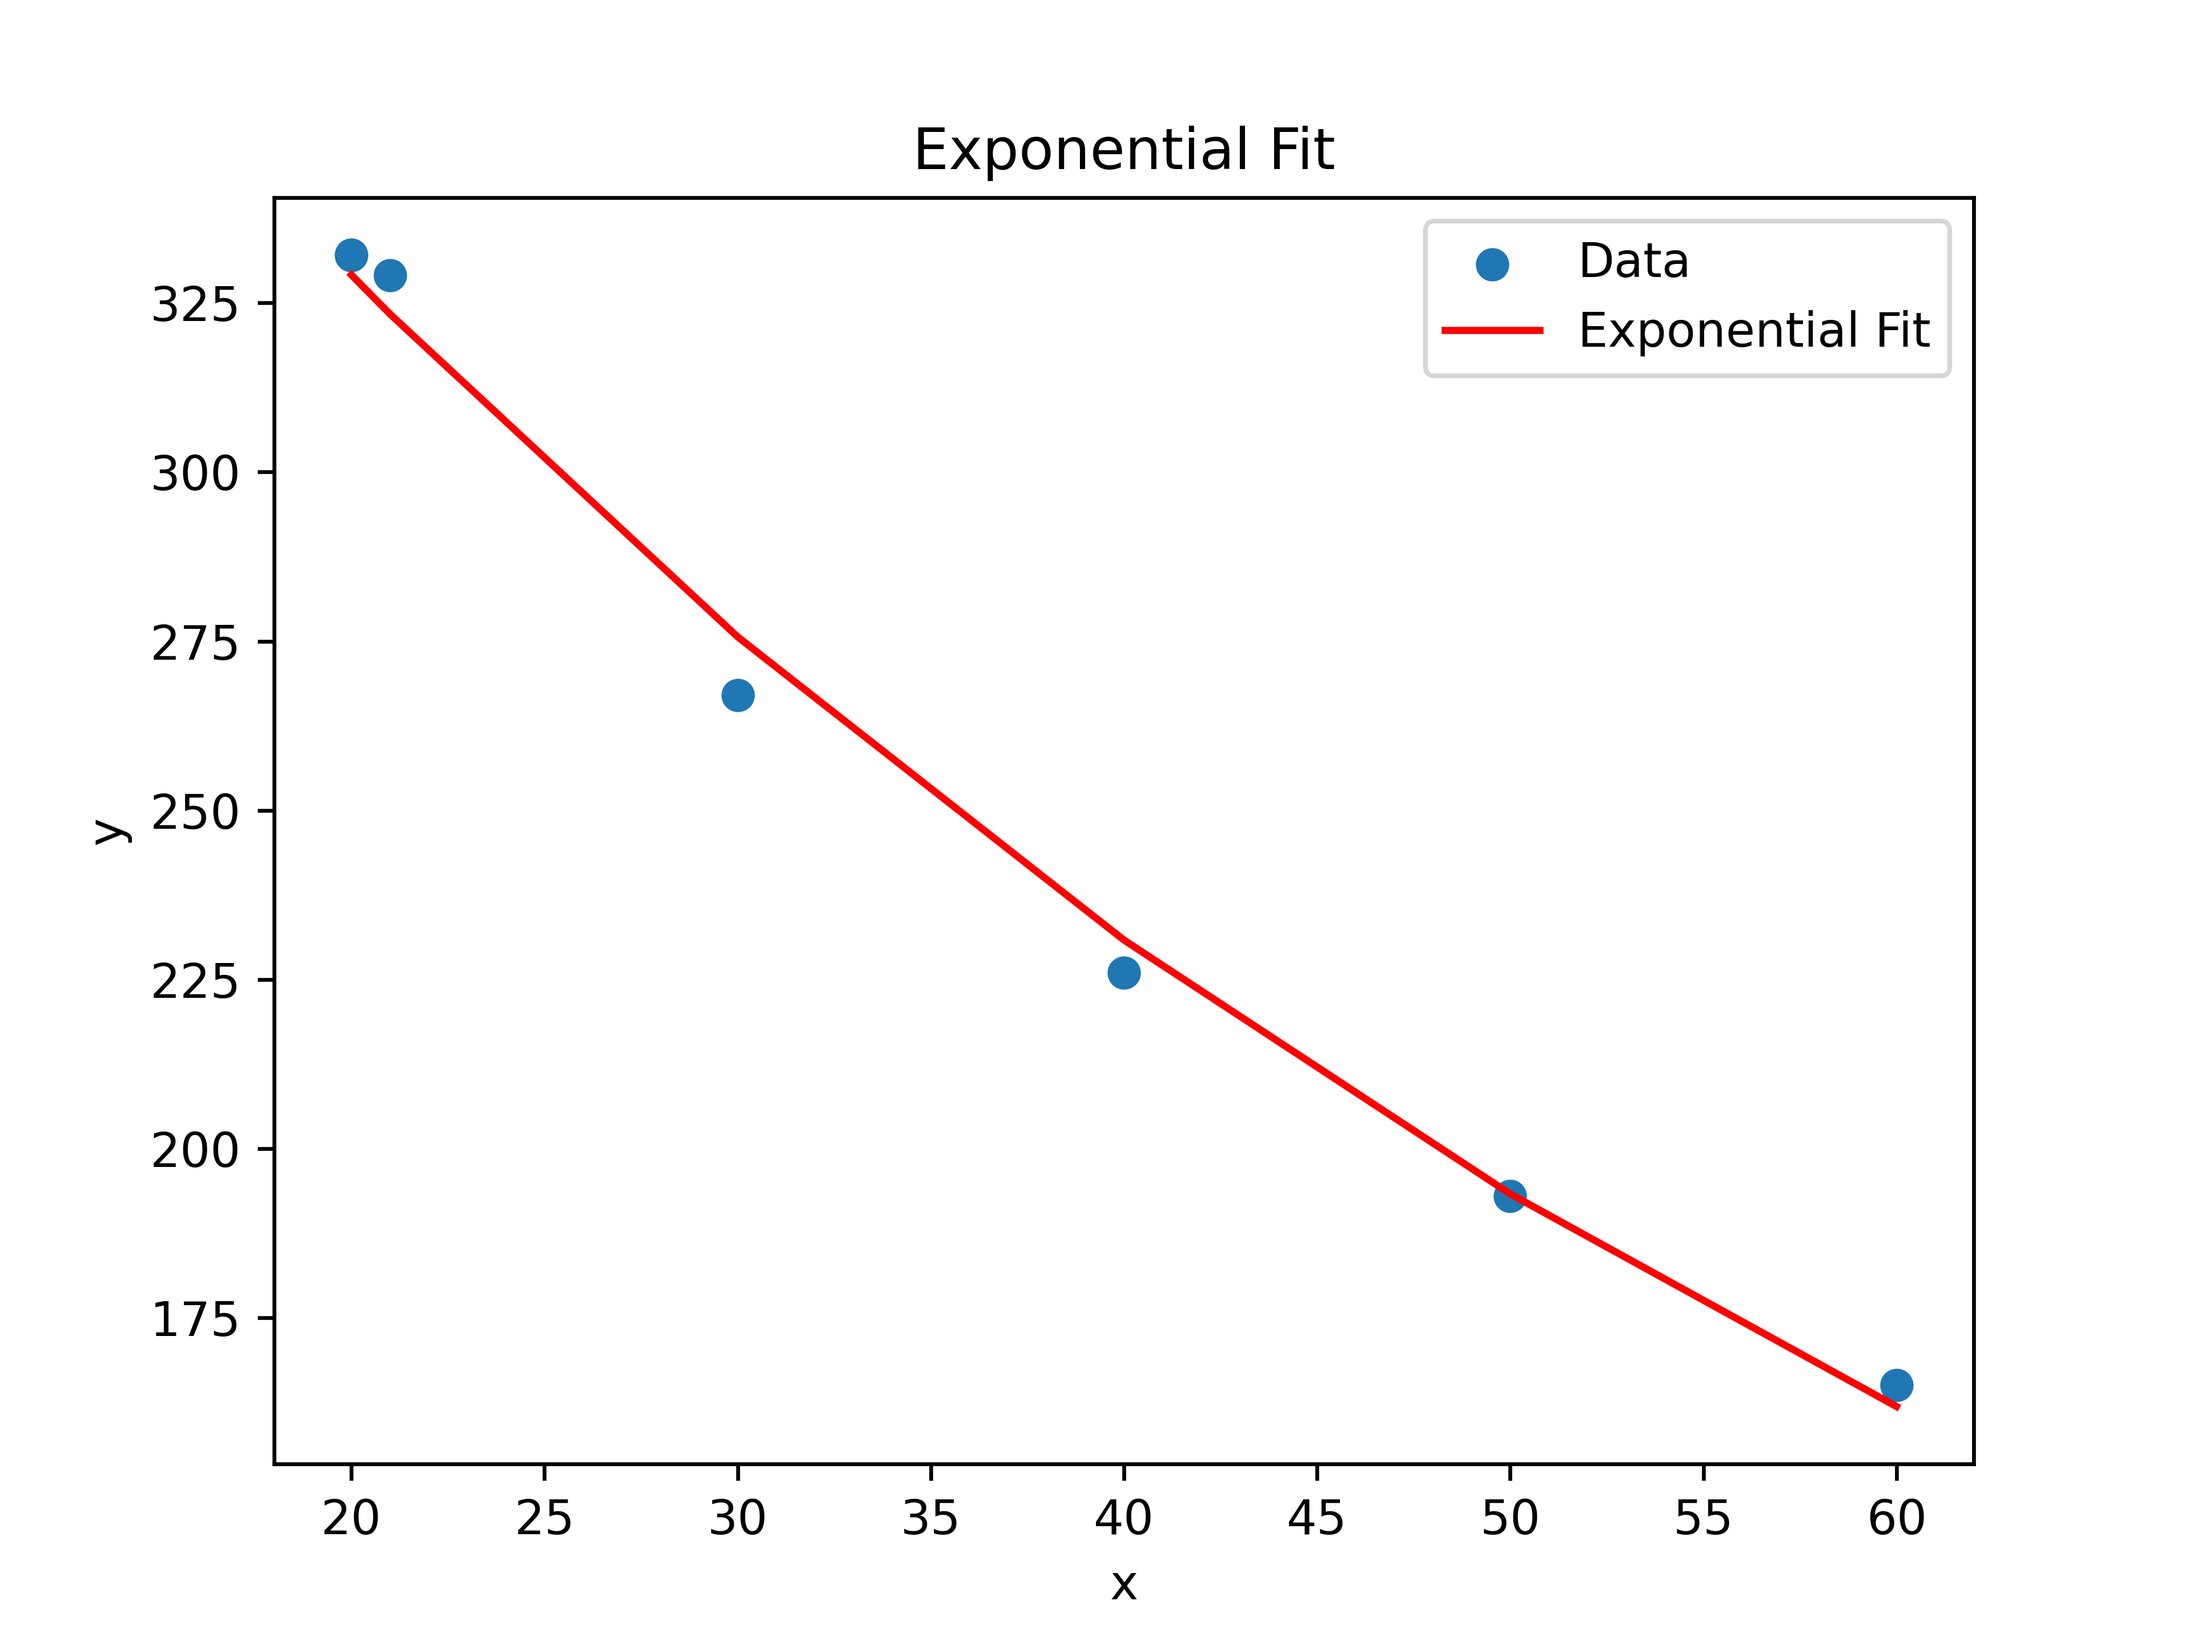
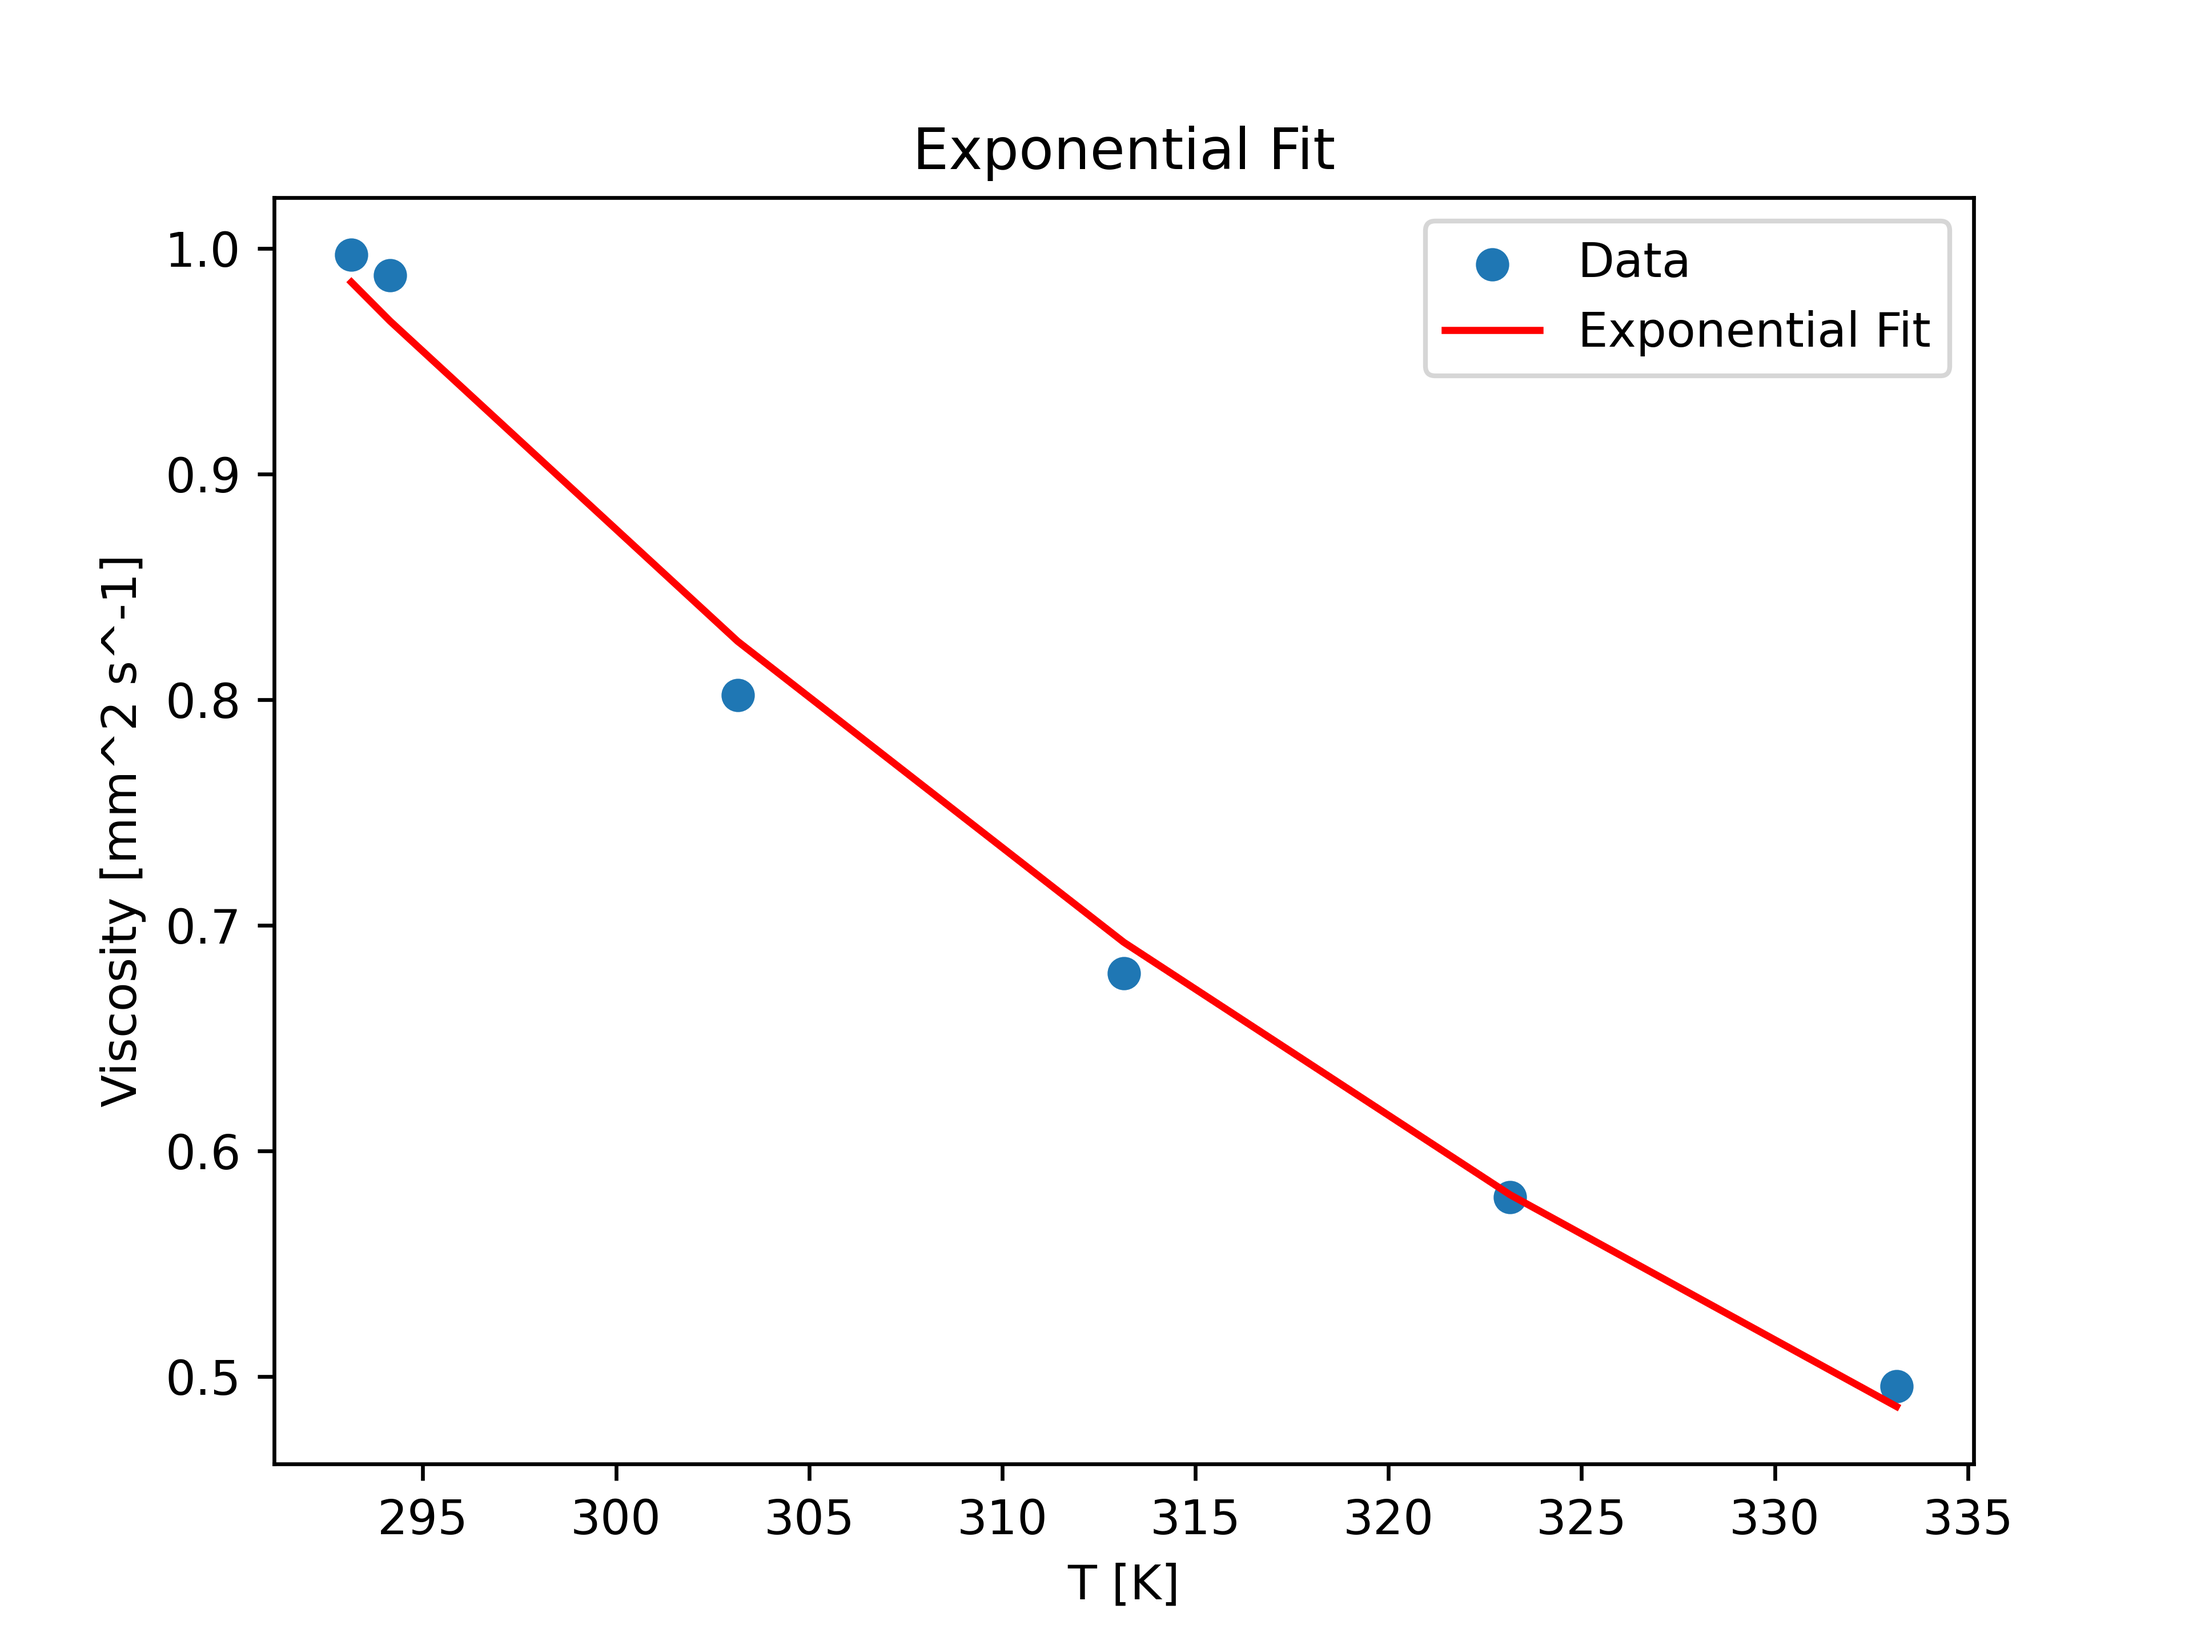
feat: improved error calculation and fitting

diff --git a/practicum/praktikum_xii/viscosity_linfit.py b/practicum/praktikum_xii/viscosity_linfit.py
@@ -57,22 +57,22 @@ t = 150.3
 d = V/(pi * r**2)
 sigma_d = ((1/(pi * r**2) *sigma_V)**2 + (-2*V/(pi * r**3) *sigma_r)**2)**0.5
 
-# v = []
-# nu = []
-# Re = []
+velocity = []
+nu = []
+Re = []
 
-# for i in range (len(data)):
-#     v.append(V/(data[i] * pi * r**2))
+for i in range (len(data)):
+    velocity.append(V/(data[i] * pi * r**2))
 
-# for i in range(len(data)):
-#     nu.append((pi * r**4 * h * rho * g * data[i])/(8 * V * l))
+for i in range(len(data)):
+    nu.append((pi * r**4 * h * rho * g * data[i])/(8 * V * l))
 
-# for i in range(len(v)):
-#     Re.append((2 * r * rho * v[i])/(nu[i]))
+for i in range(len(velocity)):
+    Re.append((2 * r * rho * velocity[i])/(nu[i]))
 
-# print(v)
-# print(nu)
-# print(Re)
+print(v)
+print(nu)
+print(Re)
 
 
 import math
@@ -116,14 +116,24 @@ print("Sigma_v:", sigma_v)
 
 
 sigma_eta_sq = sigma_eta_squared(sigma_r, sigma_h, sigma_rho, sigma_g, sigma_t, sigma_V, sigma_l, h, rho, g, t, V, l, r)
-print("Sigma_eta^2:", sigma_eta_sq)
+# print("Sigma_eta^2:", sigma_eta_sq)
 
 sigma_eta = (sigma_eta_sq)**0.5
 print("Sigma_eta:", sigma_eta)
 
 
-sigma_Re_sq = sigma_Re(sigma_d, sigma_rho, sigma_v, sigma_eta, rho, v, d, eta)
-print("Sigma_Re^2:", sigma_Re_sq)
+sigma_Re_sq = sigma_Re(sigma_r, sigma_rho, sigma_v, sigma_eta, rho, v, r, eta)
+# print("Sigma_Re^2:", sigma_Re_sq)
 
 sigma_Re_val = (sigma_Re_sq + sigma_Re_avg**2)**0.5
 print("Sigma_Re:", sigma_Re_val)
+
+# data = [332.083, 332.035, 329.051, 267.055, 226.045, 193.031, 165.049]
+
+# k = 0.003003
+# v = []
+
+# for i in range(len(data)):
+#     v.append(k*data[i]/1000000)
+
+# print(v)

diff --git a/practicum/praktikum_xii/fit_2.py b/practicum/praktikum_xii/fit_2.py
@@ -3,16 +3,16 @@ import matplotlib.pyplot as plt
 
 # Load data from the file
 data = np.array([
-    [20, 332.083],
-    [20, 332.035],
-    [21, 329.051],
-    [30, 267.055],
-    [40, 226.045],
-    [50, 193.031],
-    [60, 165.049]
+    [20, 0.997101105],
+    [21, 0.988140153],
+    [30, 0.8019661650000001],
+    [40, 0.678813135],
+    [50, 0.579672093],
+    [60, 0.4956421470000001],
 ])
 
-x_values = data[:, 0]
+x_values = data[:, 0] + 273.15
+print(x_values)
 y_values = data[:, 1]
 
 # Perform exponential fit
@@ -26,8 +26,8 @@ y_fit_exp = a * np.exp(b * x_values)
 # Plot data and exponential fit
 plt.scatter(x_values, y_values, label='Data')
 plt.plot(x_values, y_fit_exp, color='red', label='Exponential Fit')
-plt.xlabel('x')
-plt.ylabel('y')
+plt.xlabel('T [K]')
+plt.ylabel('Viscosity [mm2 s-1]')
 plt.title('Exponential Fit')
 plt.legend()
 plt.savefig("fit_exp.png",dpi=600)
